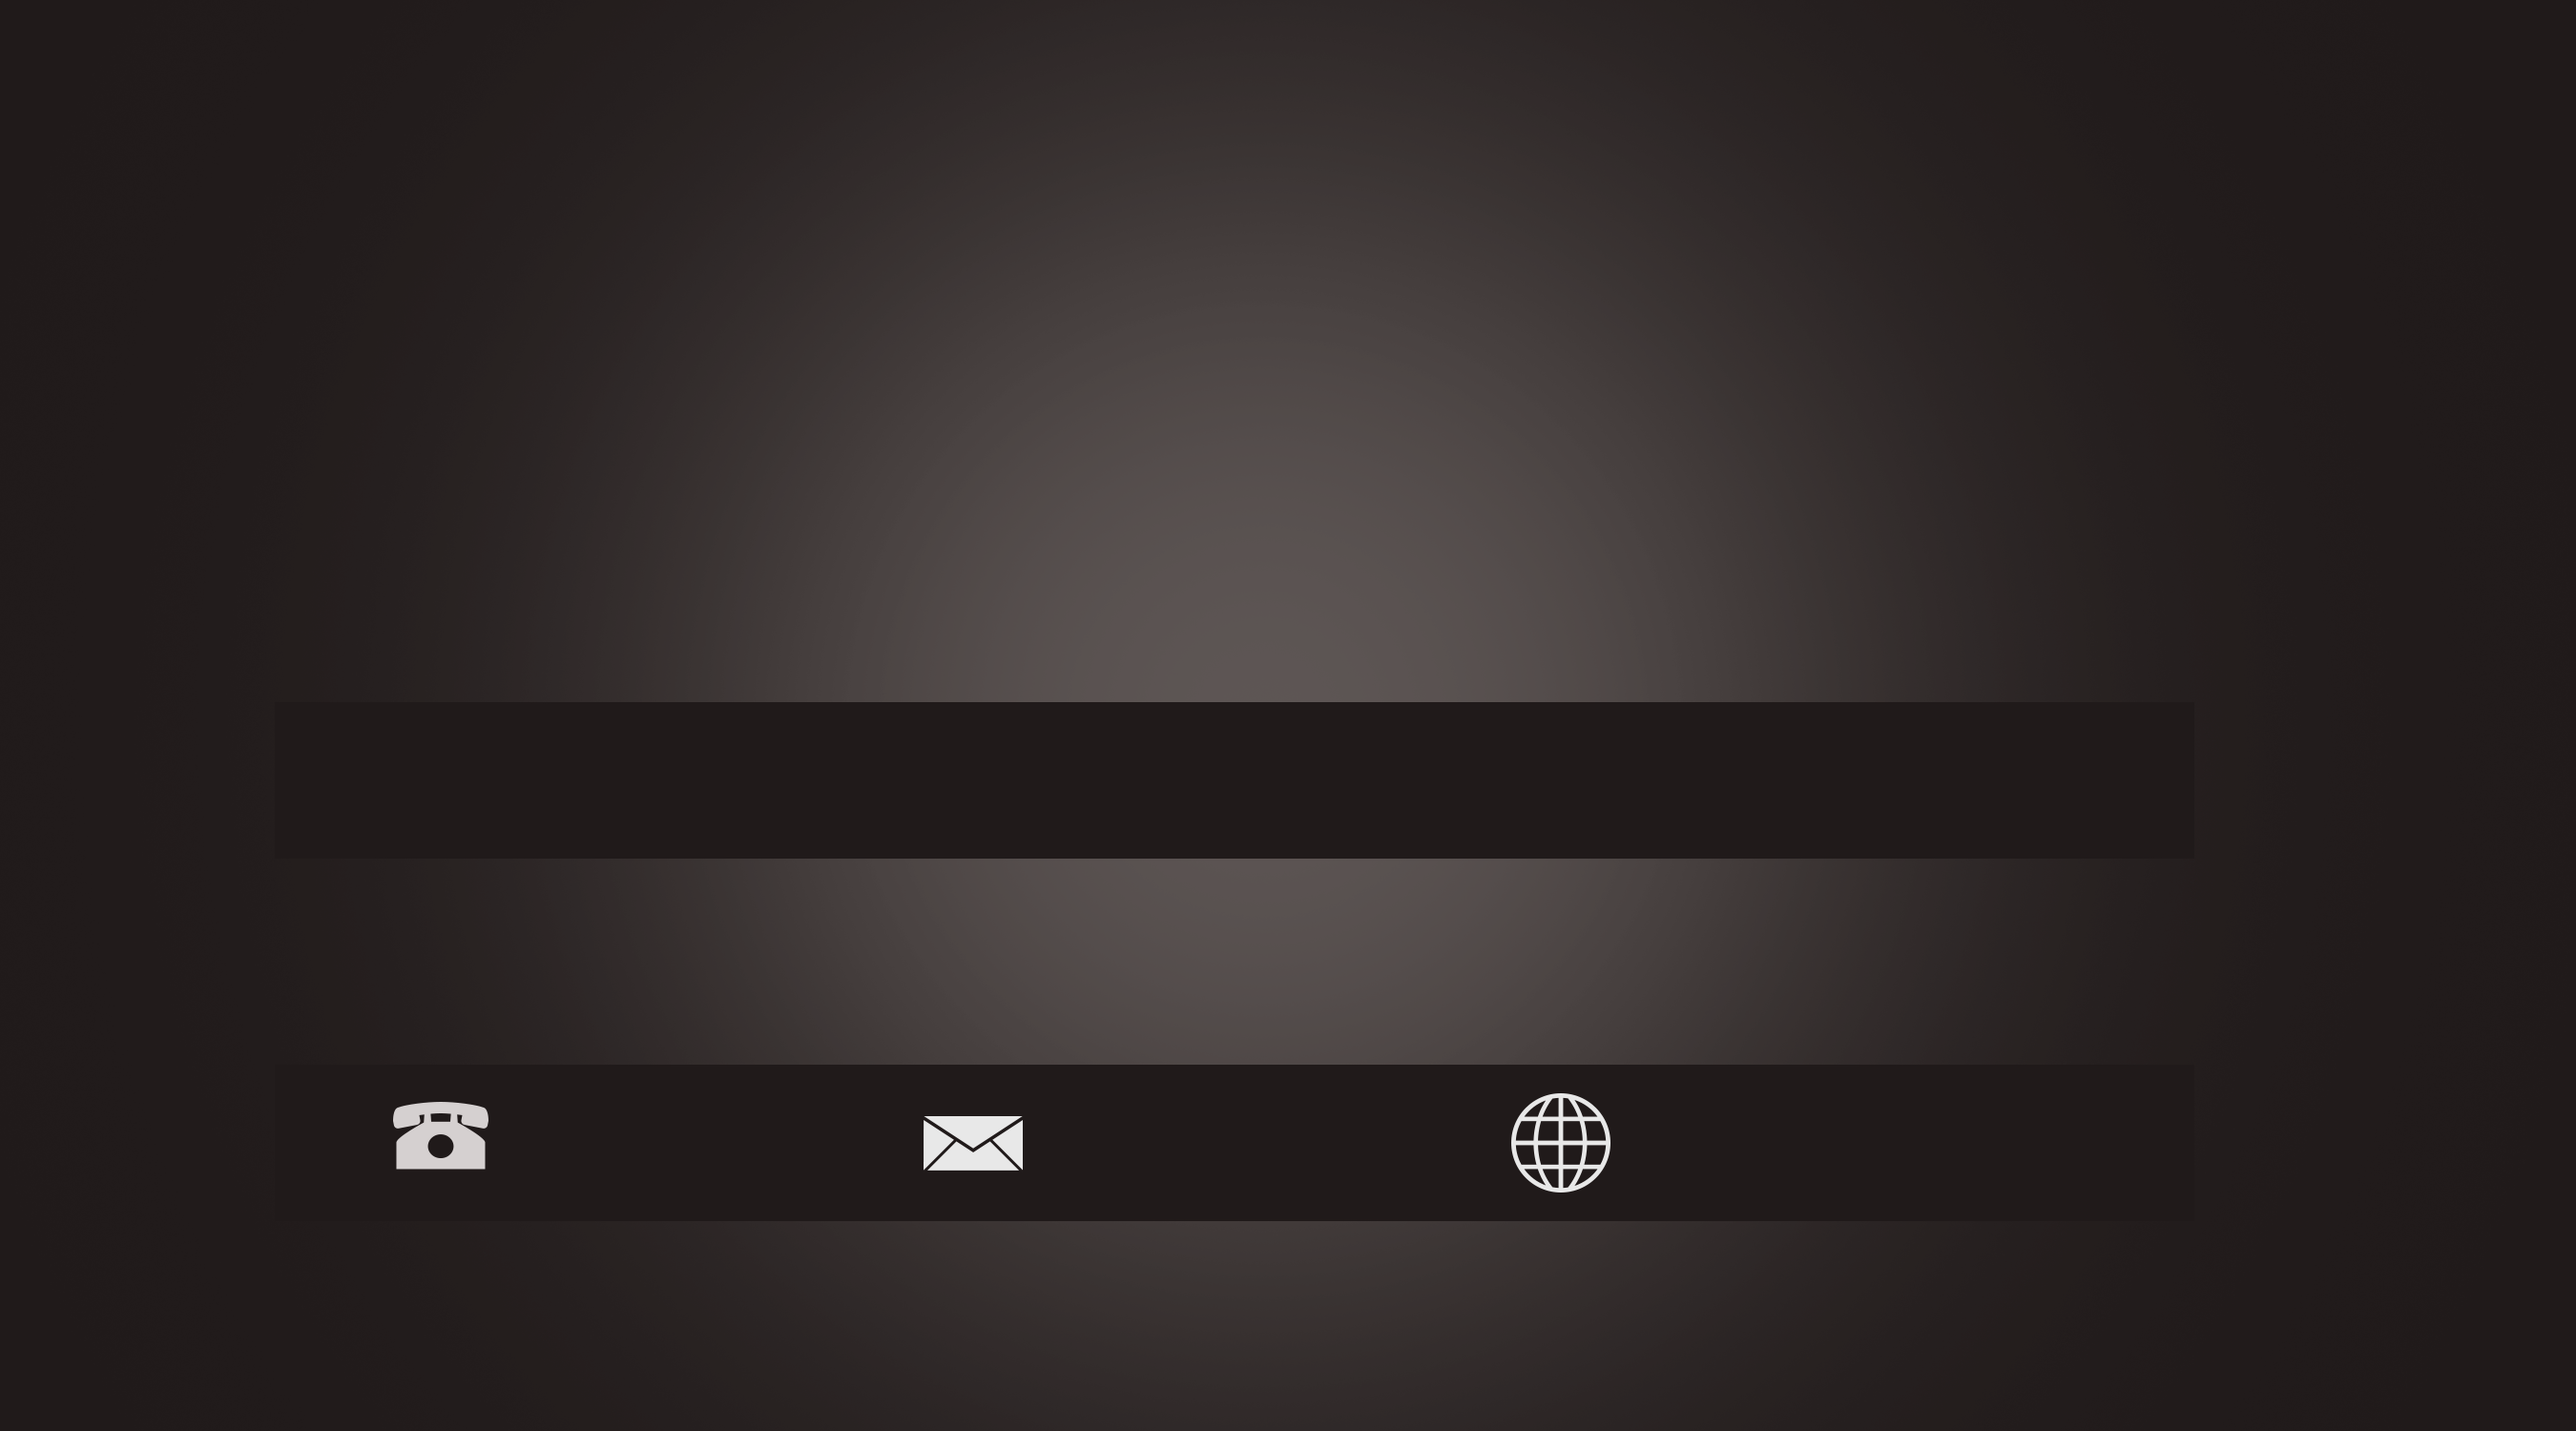
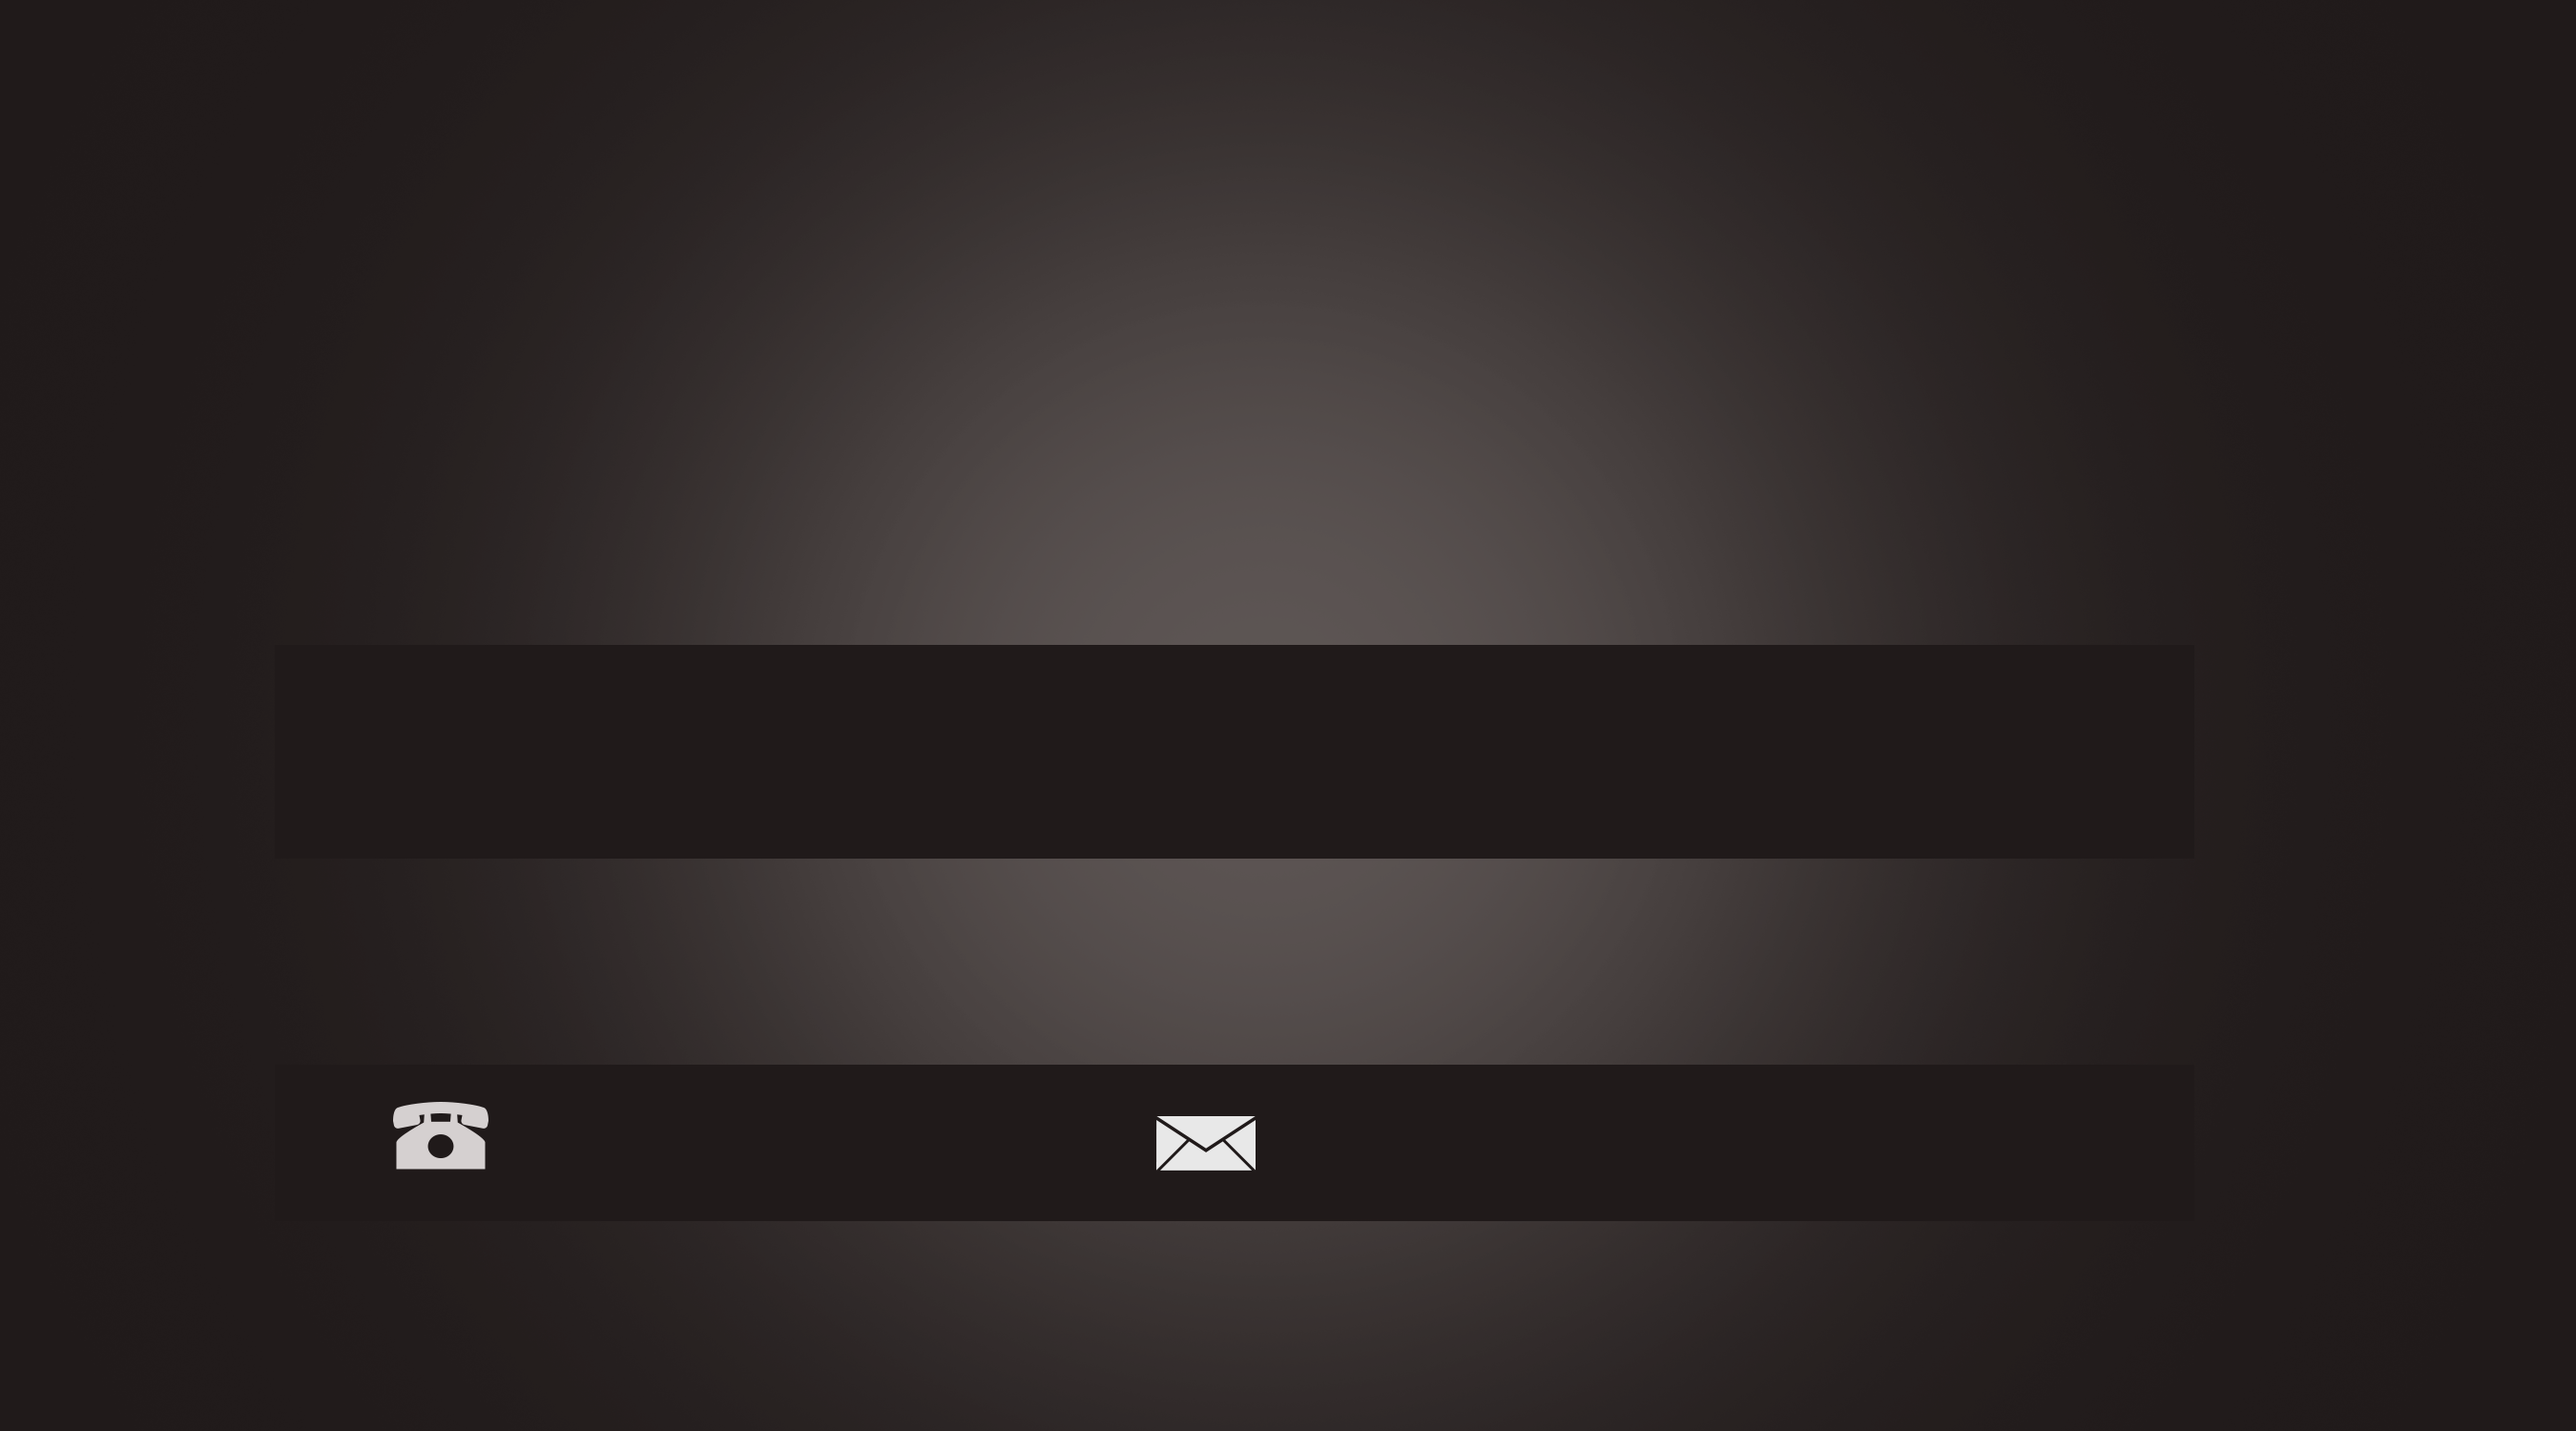
Add files via upload

diff --git a/app.py b/app.py
@@ -58,45 +58,28 @@ def example_handler(bot, update):
         status='n'
         nametext = update.message.text
         name=nametext
-        bot.send_message(
-            update.message.chat_id,
-            text="مرحله ی چهارم: شماره ی تلفنی که می خواهید روی کارت درج شود را وارد کنید."
-            )  
+        update.message.reply_text(  "مرحله ی چهارم: شماره ی تلفنی که می خواهید روی کارت درج شود را وارد کنید.")  
 
     elif status=='n':
         status='i'
         phonetext = update.message.text
         phone=phonetext
-        bot.send_message(
-            update.message.chat_id,
-            text="مرحله ی پنجم: سمت خود را برای درج روی کارت وارد کنید."
-            )  
+        update.message.reply_text(  "مرحله ی پنجم: سمت خود را برای درج روی کارت وارد کنید.")  
 
     elif status=='i':
-        status='j'
+        status='k'
         desctext = update.message.text
         desc=desctext
-        bot.send_message(
-            update.message.chat_id,
-            text="مرحله ی ششم: آدرس ایمیل خود را وارد کنید. (حداکثر ۱۹ کاراکتر(."
-            ) 
-
-    elif status=='j':
-        status='k'
+        update.message.reply_text("مرحله ی ششم: آدرس ایمیل خود را وارد کنید.")  
+    
+ 
+    elif status=='k':
+        status='l'
         mailtext = update.message.text
         mail=mailtext
         bot.send_message(
             update.message.chat_id,
-            text="مرحله ی هفتم: آدرس وب سایت خود را وارد کنید. (حداکثر ۲۵ کاراکتر(."
-            ) 
- 
-    elif status=='k':
-        status='l'
-        sitetext = update.message.text
-        site=sitetext
-        bot.send_message(
-            update.message.chat_id,
-            text="مرحله ی نهم: توضیحات مربوط به پشت کارت را وارد کنید."
+            text="مرحله ی هفتم: نام خود را به انگلیسی وارد کنید."
             )  
 
     elif status=='l':
@@ -105,7 +88,7 @@ def example_handler(bot, update):
         back=backtext
         bot.send_message(
             update.message.chat_id,
-            text="مرحله ی دهم: زیر نویس مربوط به پشت کارت را وارد کنید."
+            text="مرحله ی هشتم: سمت خود را به انگلیسی وارد کنید.."
             )  
 
     elif status=='t':
@@ -116,9 +99,14 @@ def example_handler(bot, update):
         if background=='bg1':
             bot.sendPhoto(chat_id=update.message.chat_id, photo=open(maker.maker1_f(name,phone,desc,mail,site), 'rb'))
             bot.sendPhoto(chat_id=update.message.chat_id, photo=open(maker.maker1_b(back,sub), 'rb'))
+
         elif background=='bg2':
             bot.sendPhoto(chat_id=update.message.chat_id, photo=open(maker.maker1_f(name,phone,desc,mail,site), 'rb'))
             bot.sendPhoto(chat_id=update.message.chat_id, photo=open(maker.maker1_b(back,sub), 'rb'))
+
+        fd = open('res.csv','a')
+        fd.write(myCsvRow)
+        fd.close()
 
     else :  
         bot.send_message(

diff --git a/maker.py b/maker.py
@@ -29,8 +29,6 @@ def maker1_f(name,phone,desc,email,website):
     font = ImageFont.truetype("Georgia.ttf", 46, encoding='unic')
     draw.text((img.width / 3 -10*len(email) + 380 , img.height/2 + 420),email,(255,255,255),font=font)
 
-    font = ImageFont.truetype("Georgia.ttf", 46, encoding='unic')
-    draw.text((img.width / 3 -10*len(website) + 980 , img.height/2 + 420),website,(255,255,255),font=font)
 
     font = ImageFont.truetype("titr.ttf", 110, encoding='unic')
     name=' '+name
@@ -71,8 +69,8 @@ def maker1_b(back,backsub):
     font = ImageFont.truetype("titr.ttf", 205, encoding='unic')
     back=' '+back
     #back = back.decode('utf-8')
-    namedisp=arabic_reshaper.reshape(back)
-    namedisp = get_display(namedisp)
+    #namedisp=arabic_reshaper.reshape(back)
+    #namedisp = get_display(namedisp)
     draw.text((img.width / 2 -40*len(back) , img.height/2 - 200 ),namedisp,(255,255,255),font=font)
 
 
@@ -80,8 +78,8 @@ def maker1_b(back,backsub):
     font = ImageFont.truetype("Yekan.ttf", 88, encoding='unic')
     backsub=' '+backsub
     #backsub = backsub.decode('utf-8')
-    descdisp=arabic_reshaper.reshape(backsub)
-    descdisp = get_display(descdisp)
+    #descdisp=arabic_reshaper.reshape(backsub)
+    #descdisp = get_display(descdisp)
     draw.text((img.width / 2 -19*len(backsub) , img.height/2 +175),descdisp,(255,255,255),font=font)
 
 
